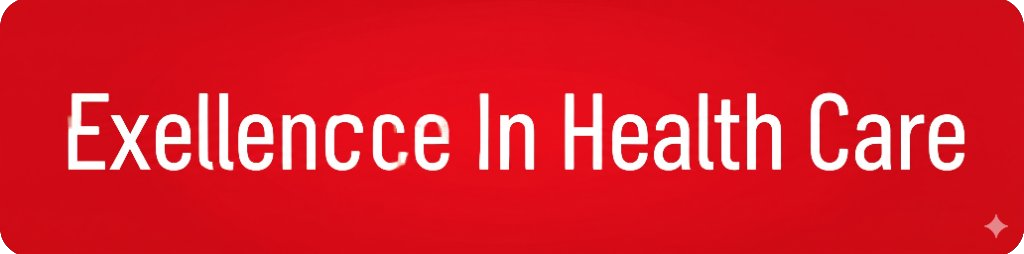
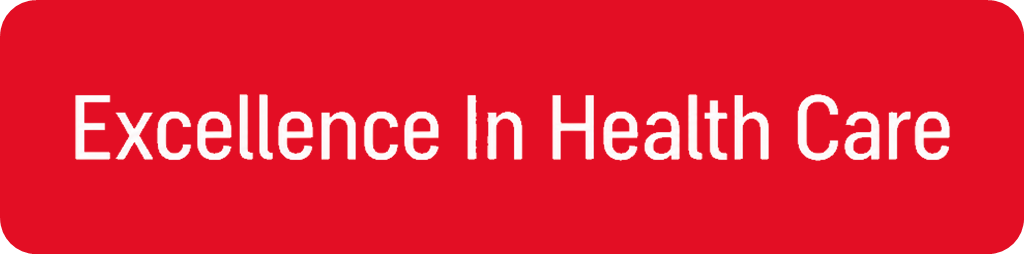
feat(branding): update slogan badge asset and standardize layout across all sections

diff --git a/apps/web/src/app/[locale]/sarc/page.tsx b/apps/web/src/app/[locale]/sarc/page.tsx
@@ -150,19 +150,19 @@ export default async function SARCPage({ params }: Props) {
       {/* ── 1. Hero ─────────────────────────────────────────────── */}
       <section className="relative min-h-screen flex flex-col justify-center pt-20 pb-16 md:pt-24 md:pb-20 overflow-hidden bg-gradient-to-br from-[#712316] to-[#3B1408]">
         {/* Slogan Banner Badge */}
-        <div className="absolute top-24 sm:top-26 inset-x-0 z-20 pointer-events-none">
-          <div className="mx-auto max-w-7xl w-full px-4 sm:px-6 lg:px-8 flex justify-end rtl:justify-start">
+        <div className="absolute top-24 sm:top-26 md:top-28 inset-x-0 z-20 pointer-events-none">
+          <div className="mx-auto max-w-[1600px] w-full px-4 sm:px-6 lg:px-8 xl:px-12 flex justify-end rtl:justify-start">
             <div
               className="pointer-events-auto relative inline-flex items-center transition-all duration-300 hover:scale-105 select-none drop-shadow-[0_8px_20px_rgba(200,16,30,0.35)]"
               role="status"
               aria-label={sloganText || 'Excellence in Healthcare'}
             >
               <Image
-                src="/images/excellence-slogan.png"
+                src="/images/excellence-slogan-v3.png"
                 alt={sloganText || 'Excellence In Health Care'}
-                width={220}
-                height={55}
-                className="h-8 sm:h-9 md:h-10 w-auto object-contain"
+                width={260}
+                height={65}
+                className="h-9 sm:h-11 md:h-12 lg:h-13 w-auto object-contain"
                 priority
                 suppressHydrationWarning
               />

diff --git a/apps/web/src/app/[locale]/doctors/page.tsx b/apps/web/src/app/[locale]/doctors/page.tsx
@@ -139,19 +139,19 @@ export default async function DoctorsPage({ params }: Props) {
         </div>
 
         {/* Slogan Banner Badge */}
-        <div className="absolute top-24 sm:top-26 inset-x-0 z-20 pointer-events-none">
-          <div className="mx-auto max-w-7xl w-full px-4 sm:px-6 lg:px-8 flex justify-end rtl:justify-start">
+        <div className="absolute top-24 sm:top-26 md:top-28 inset-x-0 z-20 pointer-events-none">
+          <div className="mx-auto max-w-[1600px] w-full px-4 sm:px-6 lg:px-8 xl:px-12 flex justify-end rtl:justify-start">
             <div
               className="pointer-events-auto relative inline-flex items-center transition-all duration-300 hover:scale-105 select-none drop-shadow-[0_8px_20px_rgba(200,16,30,0.35)]"
               role="status"
               aria-label={sloganText || 'Excellence in Healthcare'}
             >
               <Image
-                src="/images/excellence-slogan.png"
+                src="/images/excellence-slogan-v3.png"
                 alt={sloganText || 'Excellence In Health Care'}
-                width={220}
-                height={55}
-                className="h-8 sm:h-9 md:h-10 w-auto object-contain"
+                width={260}
+                height={65}
+                className="h-9 sm:h-11 md:h-12 lg:h-13 w-auto object-contain"
                 priority
                 suppressHydrationWarning
               />

diff --git a/apps/web/src/components/shared/PageHero.tsx b/apps/web/src/components/shared/PageHero.tsx
@@ -41,19 +41,19 @@ export function PageHero({
       aria-label={badge}
     >
       {/* Slogan Banner Badge */}
-      <div className="absolute top-24 sm:top-26 inset-x-0 z-20 pointer-events-none">
-        <div className="mx-auto max-w-7xl w-full px-4 sm:px-6 lg:px-8 flex justify-end rtl:justify-start">
+      <div className="absolute top-24 sm:top-26 md:top-28 inset-x-0 z-20 pointer-events-none">
+        <div className="mx-auto max-w-[1600px] w-full px-4 sm:px-6 lg:px-8 xl:px-12 flex justify-end rtl:justify-start">
           <div
             className="pointer-events-auto relative inline-flex items-center transition-all duration-300 hover:scale-105 select-none drop-shadow-[0_8px_20px_rgba(200,16,30,0.35)]"
             role="status"
             aria-label={sloganText || 'Excellence in Healthcare'}
           >
             <Image
-              src="/images/excellence-slogan.png"
+              src="/images/excellence-slogan-v3.png"
               alt={sloganText || 'Excellence In Health Care'}
-              width={220}
-              height={55}
-              className="h-8 sm:h-9 md:h-10 w-auto object-contain"
+              width={260}
+              height={65}
+              className="h-9 sm:h-11 md:h-12 lg:h-13 w-auto object-contain"
               priority
               suppressHydrationWarning
             />

diff --git a/apps/web/src/components/home/HeroSection.tsx b/apps/web/src/components/home/HeroSection.tsx
@@ -46,7 +46,7 @@ export function HeroSection({ locale, t, heroImages, contactSettings }: Props) {
             aria-label={p.heroSlogan || 'Excellence in Healthcare'}
           >
             <Image
-              src="/images/excellence-slogan.png"
+              src="/images/excellence-slogan-v3.png"
               alt={p.heroSlogan || 'Excellence In Health Care'}
               width={260}
               height={65}
